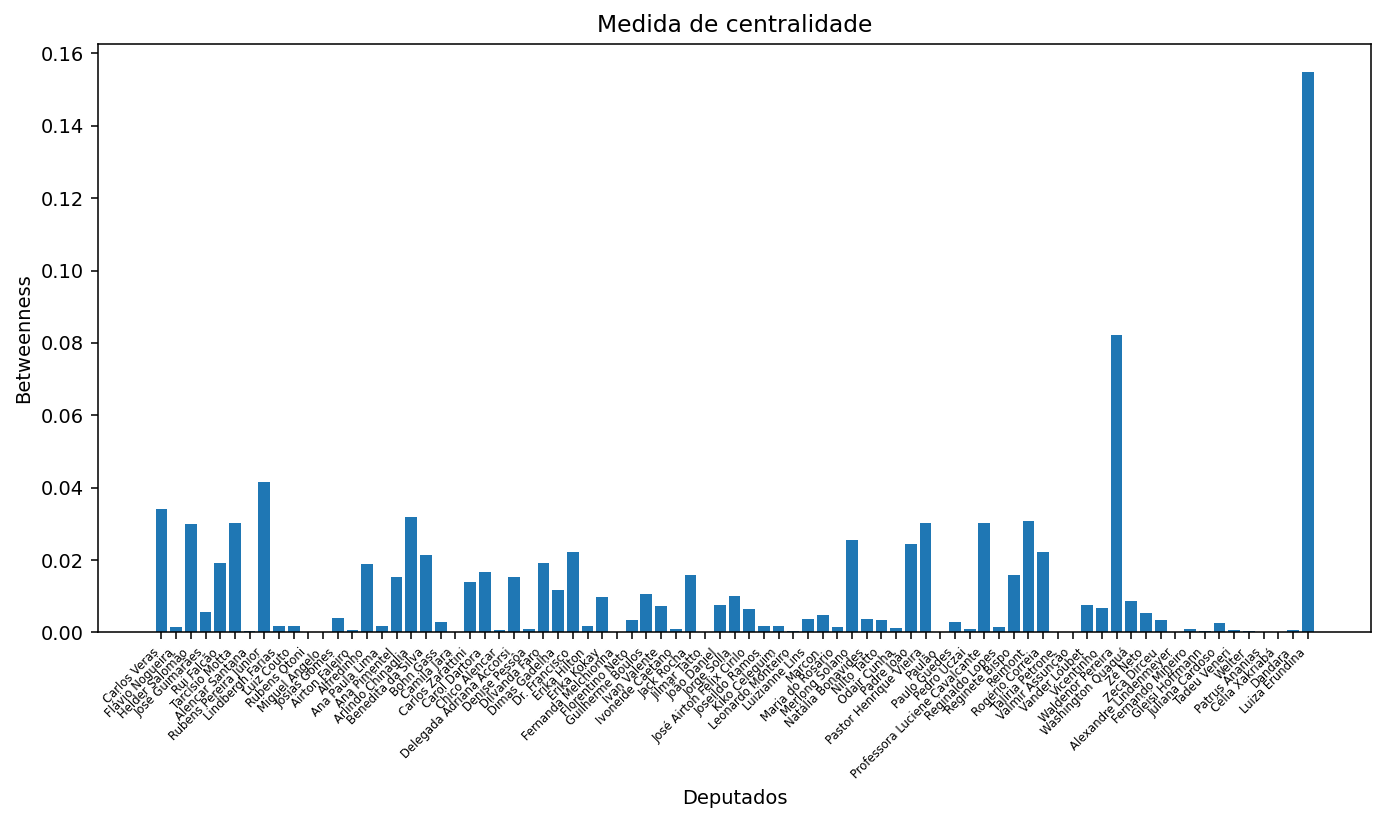
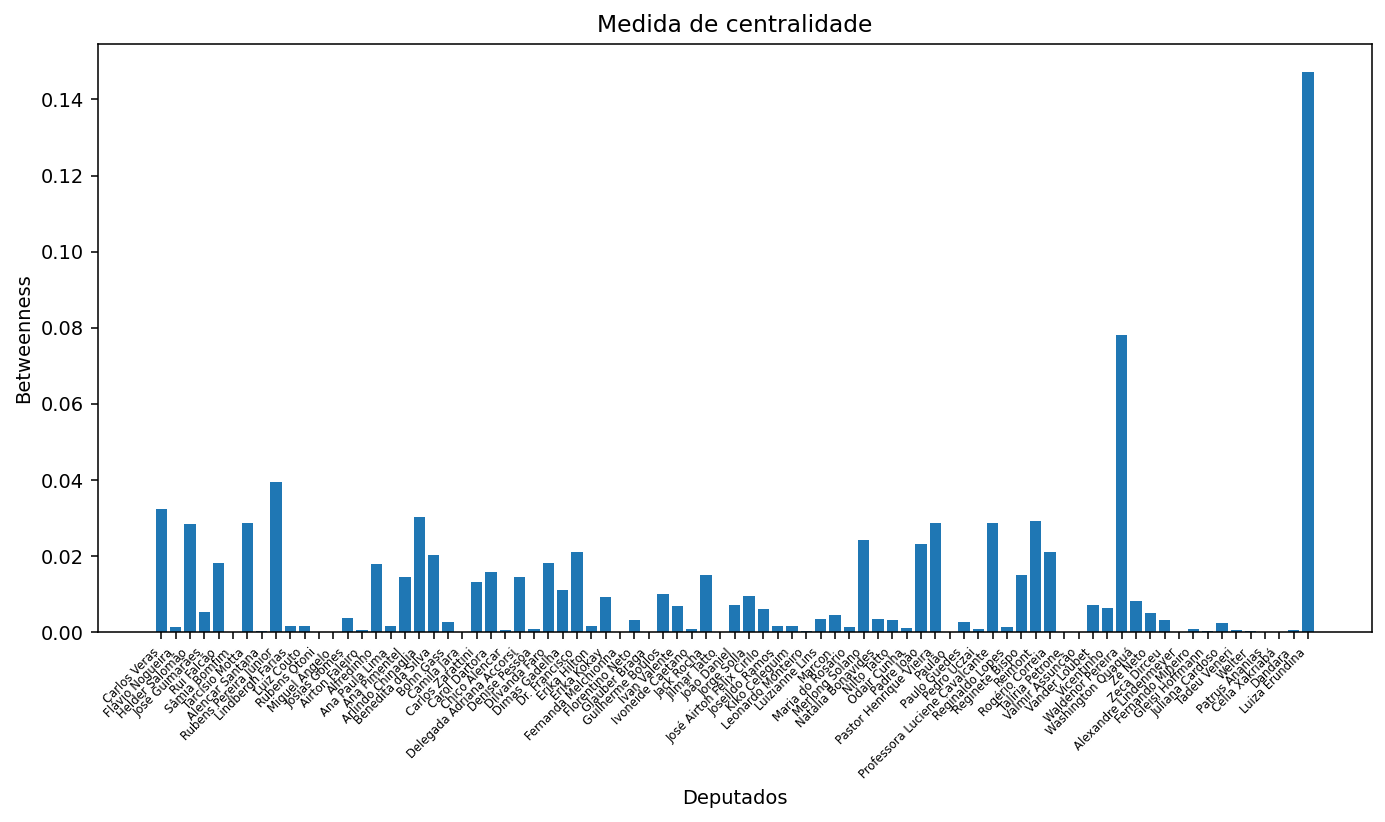
Correção de bugs

diff --git a/funcoes.py b/funcoes.py
@@ -17,8 +17,7 @@ def normalizacao(partidos_selecionados, ano,treshold):
     arquivo_politician = "dataset/politicians" + ano + ".txt"
     arquivo_grafo = "dataset/graph" + ano + ".txt"
     partido_deputado = {}
-    chave_remove = []
-
+    
     with open(arquivo_politician, 'r', encoding='utf-8') as file:
         candidatos = []
         grafo_qnt_votos = {}
@@ -41,8 +40,8 @@ def normalizacao(partidos_selecionados, ano,treshold):
                     deputados.append(elementos[0])
 
     betweenness = nx.betweenness_centrality(grafo_analise_treshold)
-    #grafico(betweenness, deputados)
     plotagem(grafo_analise_treshold, partidos_selecionados, partido_deputado)
+    grafico(betweenness, deputados)
 
 def grafico(betweenness, lista_deputados):
     fig, ax = mp.subplots(figsize = (10, 6))
@@ -67,7 +66,6 @@ def grafico(betweenness, lista_deputados):
     mp.savefig("grafico.png", dpi=140, bbox_inches='tight')
 
 def plotagem(grafo, partidos, partido_deputado):
-    #print(partido_deputado)
     cores = [
         (0.12156862745098039, 0.4666666666666667, 0.7058823529411765),
         (1.0, 0.4980392156862745, 0.054901960784313725),
@@ -88,7 +86,8 @@ def plotagem(grafo, partidos, partido_deputado):
     for deputado in grafo.nodes():
         cor_no.append(cores_partido[partido_deputado[deputado]])
     
-    layout = nx.spring_layout(grafo)
-    nx.draw(grafo, pos=layout, with_labels=True, node_size=300, node_color=cor_no, font_size=10)
+    layout = nx.spring_layout(grafo, scale=10000)
+    fig, ax = mp.subplots(figsize=(10, 6))
+    nx.draw(grafo, pos=layout, with_labels=True, node_size=100, node_color=cor_no, font_size=10)
     mp.savefig("plotagem.png", dpi=140, bbox_inches='tight')
     mp.show()

diff --git a/main.py b/main.py
@@ -18,7 +18,7 @@ def abrir_nova_tela(checkbox_vars, partidos,s,treshold):
     nova_tela.geometry(f"1400x950")
     nova_tela.geometry(f"+150-57")
 
-    (checkbox_vars, partidos,s,valor_digitado)
+    f.mostrar_selecionados(checkbox_vars, partidos,s,valor_digitado)
 
     image_pil = Image.open("grafico.png")  # Substitua pelo caminho da sua imagem
     image = ImageTk.PhotoImage(image_pil)
